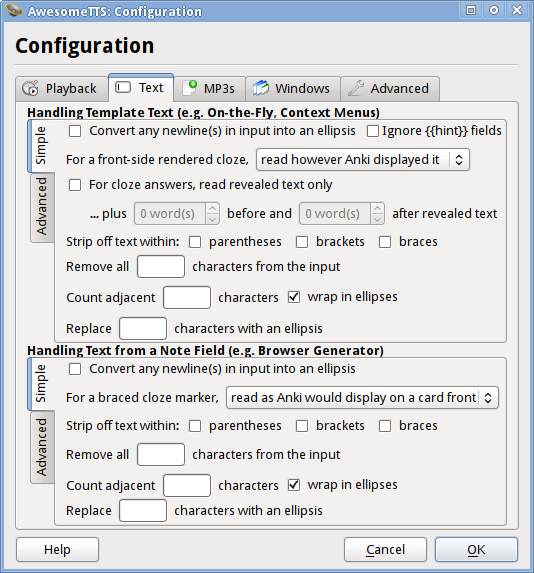
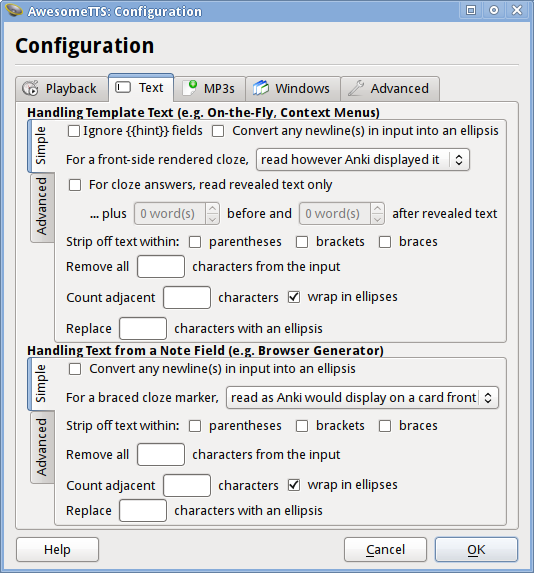
... actually, ellipsize after hints
Ellipsizing destroys the hint div containers, so we need to move that
back.

Changed region(s): [[0.1199, 0.2077, 0.9588, 0.2373]]

diff --git a/addon/awesometts/__init__.py b/addon/awesometts/__init__.py
@@ -267,7 +267,12 @@ addon = Bundle(
         # n.b. cloze substitution logic happens before HTML is stripped as:
         # - we need the <span>...</span> markup in on-the-fly to identify it
         # - Anki won't recognize cloze w/ HTML beginning/ending within braces
+        # - if used with before/after context option, HTML in the surrounding
+        #   context will be destroyed for counting words
         # - the following 'html' rule will cleanse the HTML out anyway
+
+        # n.b. hint handling must happen before newline ellipsizing as newline
+        # ellipsizing will destroy the hint field's `div` block
 
         # for content directly from a note field (e.g. BrowserGenerator runs,
         # prepopulating a modal input based on some note field, where cloze
@@ -293,18 +298,18 @@ addon = Bundle(
         # for cleaning up already-processed HTML templates (e.g. on-the-fly,
         # where cloze is marked with <span class=cloze></span> tags)
         from_template_front=Sanitizer([
-            ('newline_ellipsize', 'ellip_template_newlines'),
             'hint_links',
             ('hint_content', 'otf_remove_hints'),
+            ('newline_ellipsize', 'ellip_template_newlines'),
             ('clozes_rendered', 'sub_template_cloze'),
             'html',
         ] + STRIP_TEMPLATE_POSTHTML, config=config, logger=logger),
 
         # like the previous, but for the back sides of cards
         from_template_back=Sanitizer([
-            ('newline_ellipsize', 'ellip_template_newlines'),
             'hint_links',
             ('hint_content', 'otf_remove_hints'),
+            ('newline_ellipsize', 'ellip_template_newlines'),
             (
                 'clozes_revealed',
                 'otf_only_revealed_cloze',
@@ -320,10 +325,10 @@ addon = Bundle(
         # n.b. clozes_revealed is not used here without the card context and
         # it would be a weird thing to apply to the clipboard content anyway
         from_unknown=Sanitizer([
-            ('newline_ellipsize', 'ellip_note_newlines'),
-            ('newline_ellipsize', 'ellip_template_newlines'),
             'hint_links',
             ('hint_content', 'otf_remove_hints'),
+            ('newline_ellipsize', 'ellip_note_newlines'),
+            ('newline_ellipsize', 'ellip_template_newlines'),
             ('clozes_braced', 'sub_note_cloze'),
             ('clozes_rendered', 'sub_template_cloze'),
             'html',

diff --git a/addon/awesometts/gui/configurator.py b/addon/awesometts/gui/configurator.py
@@ -265,9 +265,9 @@ class Configurator(Dialog):
 
         if template_options:
             hor = QtGui.QHBoxLayout()
-            hor.addWidget(convert_newlines)
             hor.addWidget(Checkbox("Ignore {{hint}} fields",
                                    'otf_remove_hints'))
+            hor.addWidget(convert_newlines)
             layout.addLayout(hor)
 
         else:
